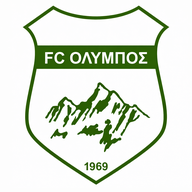
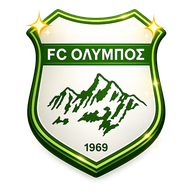
Add files via upload

diff --git a/index.html b/index.html
@@ -36,7 +36,26 @@
     <link rel="icon" type="image/png" sizes="32x32" href="favicon-32x32.png">
     <link rel="icon" type="image/png" sizes="16x16" href="favicon-16x16.png">
     <link rel="shortcut icon" href="favicon.ico">
-    
+
+    <script>
+    // --- SPLASH ΣΤΗΝ ΕΦΑΡΜΟΓΗ ANDROID (29/10/2026) ---
+    // Στην εγκατεστημένη εφαρμογή, το Android δείχνει ΠΡΩΤΑ μια δική του οθόνη, πριν τρέξει
+    // οτιδήποτε από εδώ: φόντο = "background_color" του manifest.json (πράσινο #1a472a) και στη
+    // μέση το εικονίδιο της εφαρμογής (icon-512.png) στα 240dp. Αυτή ΔΕΝ σβήνεται από τον κώδικα.
+    // ΠΡΙΝ: πράσινο + παλιό σήμα σε λευκό τετράγωνο, μετά το δικό μας λευκό + logo_front.png.
+    //       Δύο διαφορετικές οθόνες στη σειρά.
+    // ΤΩΡΑ: τα icon-192.png / icon-512.png είναι το γυαλιστερό σήμα (κομμένο από το logo_front.png),
+    //       και μόνο στην εφαρμογή Android το δικό μας splash γίνεται πράσινο, με το σήμα στο ίδιο
+    //       μέγεθος (CSS .android-app, κάτω από το "SPLASH SCREEN"). Το μάτι βλέπει μία οθόνη.
+    // Browser και iPhone: ΟΠΩΣ ΠΡΙΝ (λευκό, ή σκούρο στο σκούρο θέμα, + logo_front.png).
+    // Είναι εδώ, πριν από τα CSS, για να μπει η κλάση πριν ζωγραφιστεί οτιδήποτε.
+    (function () {
+        var isApp = /Android/i.test(navigator.userAgent) && window.matchMedia &&
+            window.matchMedia('(display-mode: standalone), (display-mode: fullscreen), (display-mode: minimal-ui)').matches;
+        if (isApp) document.documentElement.classList.add('android-app');
+    })();
+    </script>
+
     <link href="https://fonts.googleapis.com/css2?family=Roboto+Condensed:wght@700&family=Inter:wght@400;600;700;900&family=Saira+Stencil+One&family=Commissioner:wght@700&display=swap" rel="stylesheet">
     <link rel="stylesheet" href="https://cdnjs.cloudflare.com/ajax/libs/font-awesome/6.5.1/css/all.min.css">
 
@@ -3336,6 +3355,19 @@ details.round-section:not([open]) > summary.round-header::after { transform: rot
         .splash-hidden { opacity: 0; pointer-events: none; }
         /* Σκούρο θέμα: ΠΡΙΝ λευκό splash -> λευκό φλας πριν από τη σκούρα σελίδα (17/10/2026) */
         @media (prefers-color-scheme: dark) { #custom-splash { background-color: #121212; } }
+        /* Εφαρμογή Android (29/10/2026, βλ. σχόλιο στο <head>): το splash γίνεται ΙΔΙΟ με την
+           οθόνη που βγάζει πρώτα το ίδιο το Android, για να φαίνονται σαν μία οθόνη.
+           Μπαίνει μετά το σκούρο θέμα ΕΠΙΤΗΔΕΣ: το Android βγάζει πράσινο και στο σκούρο. */
+        .android-app #custom-splash { background-color: #1a472a; }   /* <-- = "background_color" του manifest.json */
+        .android-app .splash-logo {
+            /* Το icon-512.png είναι το logo_front.png κομμένο στο κέντρο (τα 600 από τα 720px).
+               Το Android δείχνει το εικονίδιο στα 240dp, άρα εδώ το logo_front.png θέλει
+               240 x 720/600 = 288px για να βγει το σήμα στο ΙΔΙΟ μέγεθος. Το logo_front.png
+               φορτώνει έτσι κι αλλιώς για την κεφαλίδα: κανένα επιπλέον κατέβασμα. */
+            width: 288px;                   /* <-- ΜΕΓΕΘΟΣ */
+            max-width: none;
+            transform: translateY(0px);     /* <-- ΘΕΣΗ: αν το σήμα «πηδάει» λίγο στην αλλαγή, π.χ. 10px = πιο κάτω */
+        }
 /* ================= ΙΣΤΟΡΙΚΟ ================= */
 .hist-hero {
     background: linear-gradient(135deg, #1a472a, #2d6a4f);
@@ -5044,6 +5076,25 @@ function showToast(message, type = 'success') {
         //    (αν αλλάξει, οι εγκατεστημένες εφαρμογές μπορεί να φανούν σαν άλλη εφαρμογή).
         //  - ΔΕΝ ΑΛΛΑΞΑΝ ΕΠΙΤΗΔΕΣ: Google Analytics (απόφαση διαχειριστή), η ερώτηση για τα
         //    drafts (OK = πρόχειρο, Ακύρωση = GitHub — η συνήθεια μένει ίδια), Firebase.
+        // =========================================================
+
+        // =========================================================
+        // ΑΛΛΑΓΗ 29/10/2026 — ΔΙΠΛΟ SPLASH ΣΤΗΝ ΕΦΑΡΜΟΓΗ ANDROID
+        //  - Πρόβλημα: η εγκατεστημένη εφαρμογή έβγαζε δύο οθόνες: πρώτα του Android
+        //    (πράσινο + παλιό σήμα σε λευκό τετράγωνο, από το manifest.json, δεν σβήνεται)
+        //    και μετά τη δική μας (λευκό + logo_front.png).
+        //  - Λύση (απόφαση διαχειριστή: γυαλιστερό σήμα, πράσινο φόντο):
+        //    * icon-192.png / icon-512.png = το logo_front.png κομμένο στο κέντρο (600 από 720px),
+        //      διάφανο φόντο. Γίνεται και το εικονίδιο στην αρχική οθόνη του κινητού.
+        //    * Μόνο στην εφαρμογή Android, το δικό μας splash γίνεται πράσινο, με το logo_front.png
+        //      στα 288px = ίδιο μέγεθος με το εικονίδιο του Android (κλάση .android-app στο <html>,
+        //      script στο <head>, CSS κάτω από "SPLASH SCREEN").
+        //  - Browser και iPhone: όπως πριν. Το manifest.json ΔΕΝ άλλαξε (ίδια ονόματα αρχείων).
+        //  - Όσοι έχουν ήδη την εφαρμογή παίρνουν το νέο εικονίδιο όταν ο Chrome ενημερώσει την
+        //    εφαρμογή (έλεγχος 1 φορά/24ώρες, με WiFi + φόρτιση, και ίσως ζητήσει έγκριση από το ⋮).
+        //    Ως τότε βλέπουν ακόμα το παλιό σήμα στην πρώτη οθόνη.
+        //  - Αν αλλάξει το "background_color" ή το εικονίδιο στο manifest, αλλάζει και εδώ
+        //    (.android-app #custom-splash / .android-app .splash-logo).
         // =========================================================
         const KO_STAGES = [
             { key: 'R16', round: 101, label: 'Φάση των 16',  ties: 8, at: 'στη Φάση των 16' },
